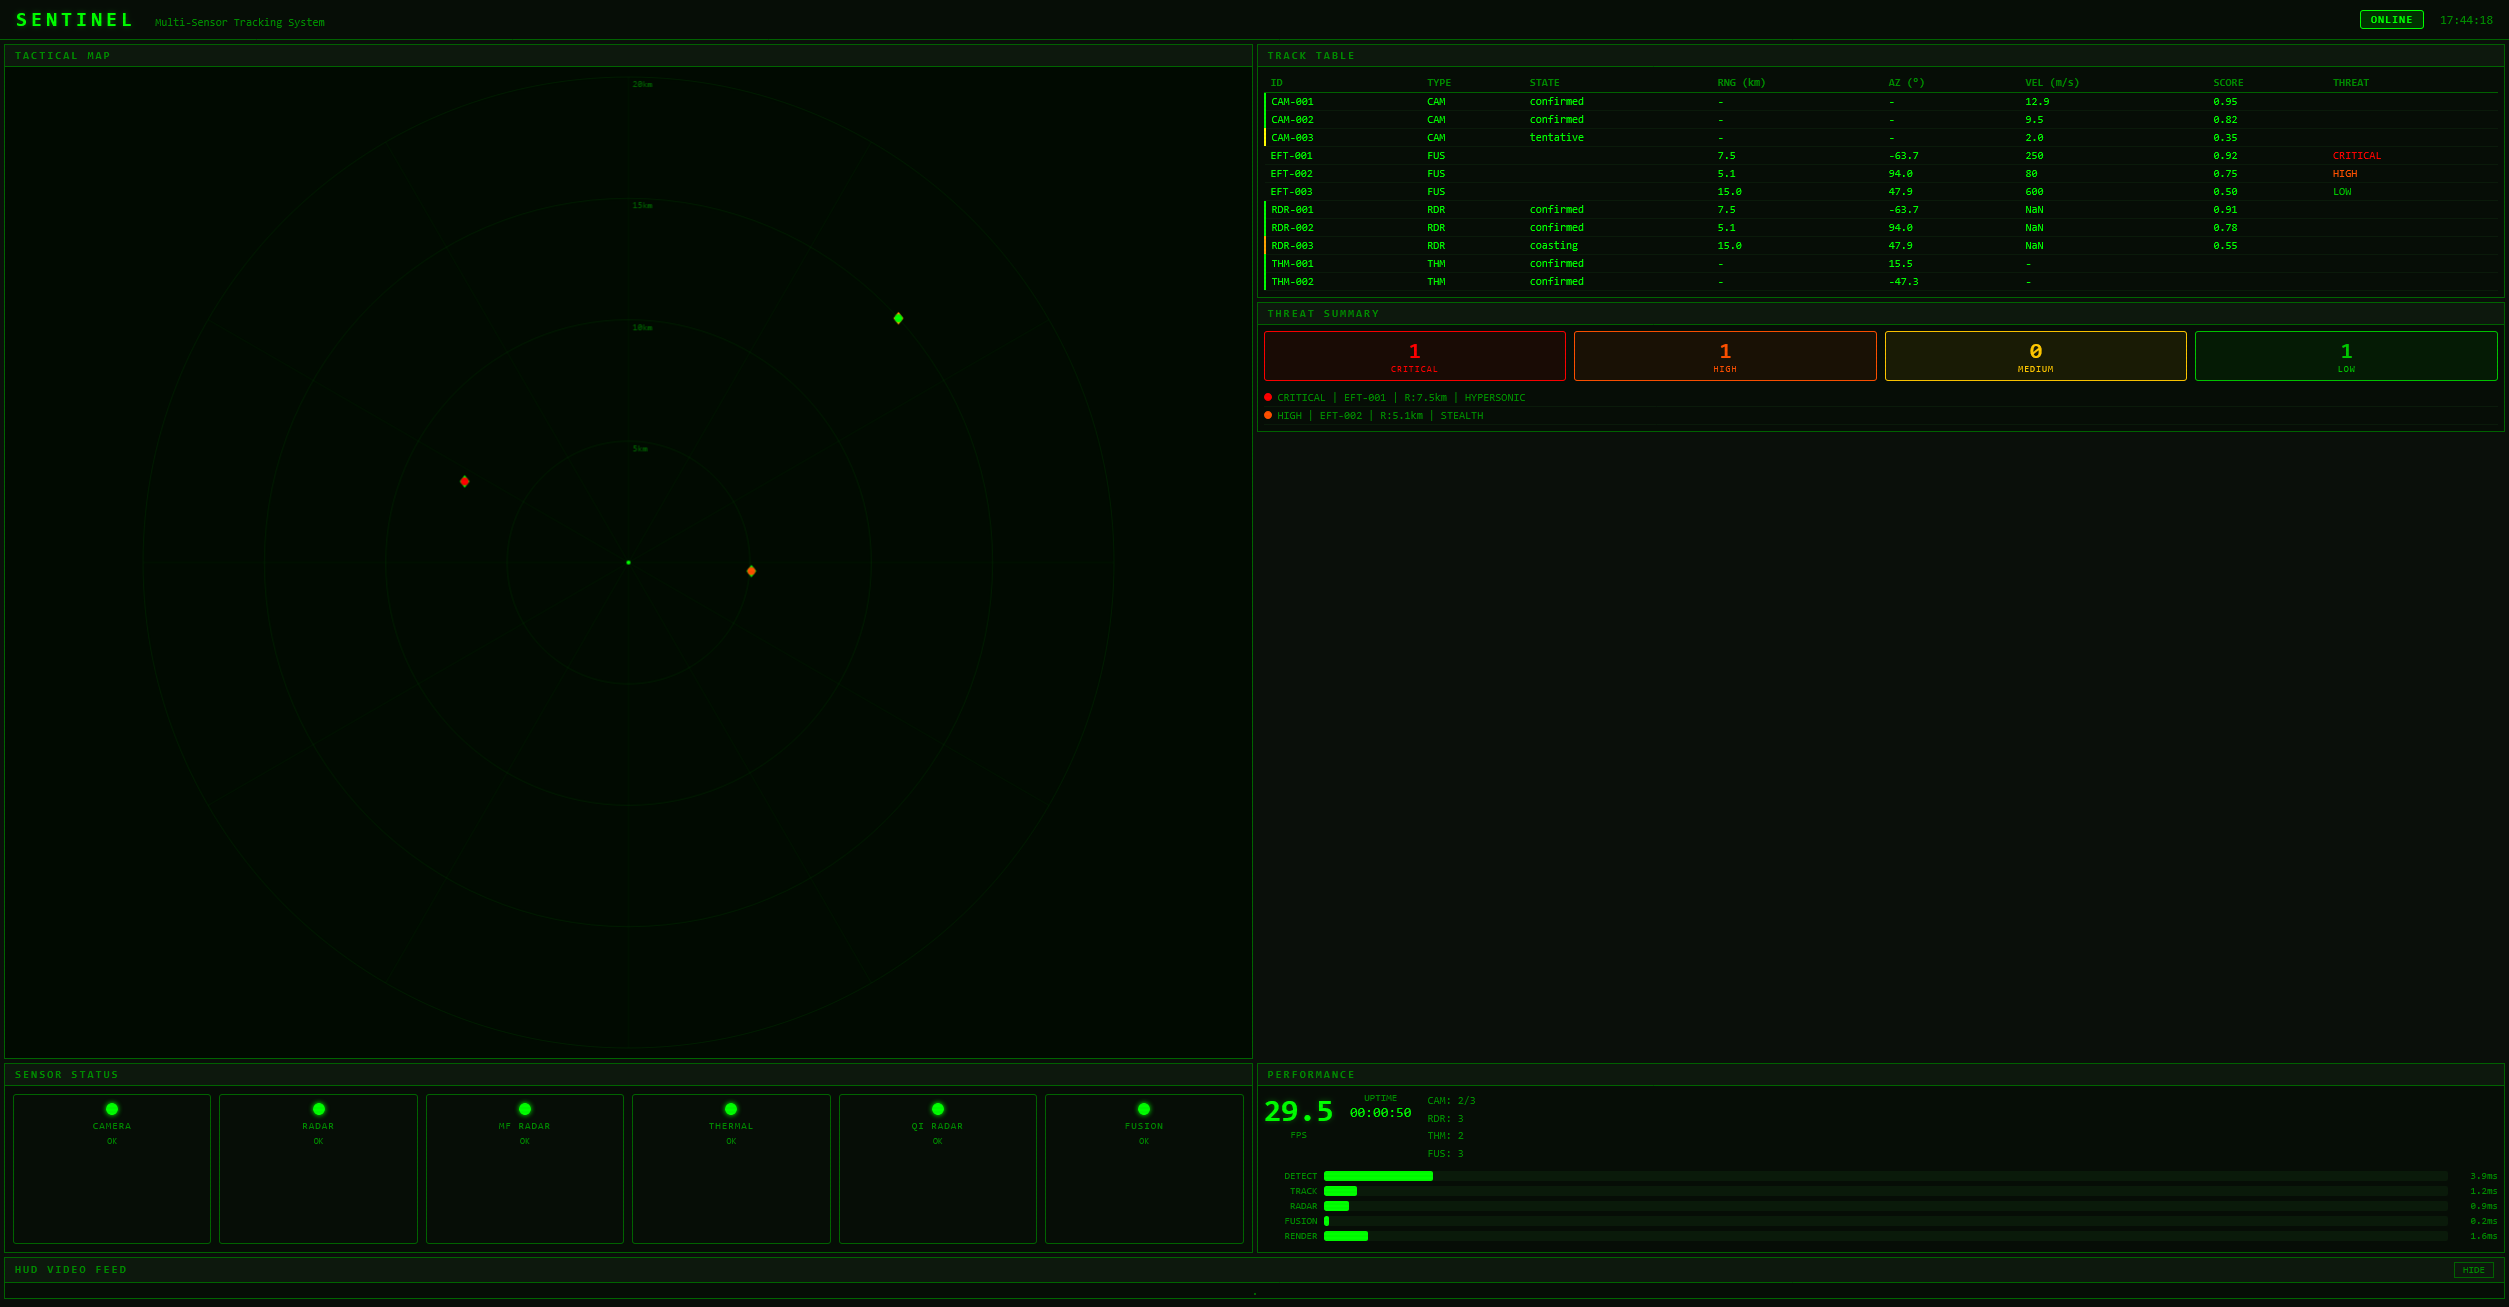
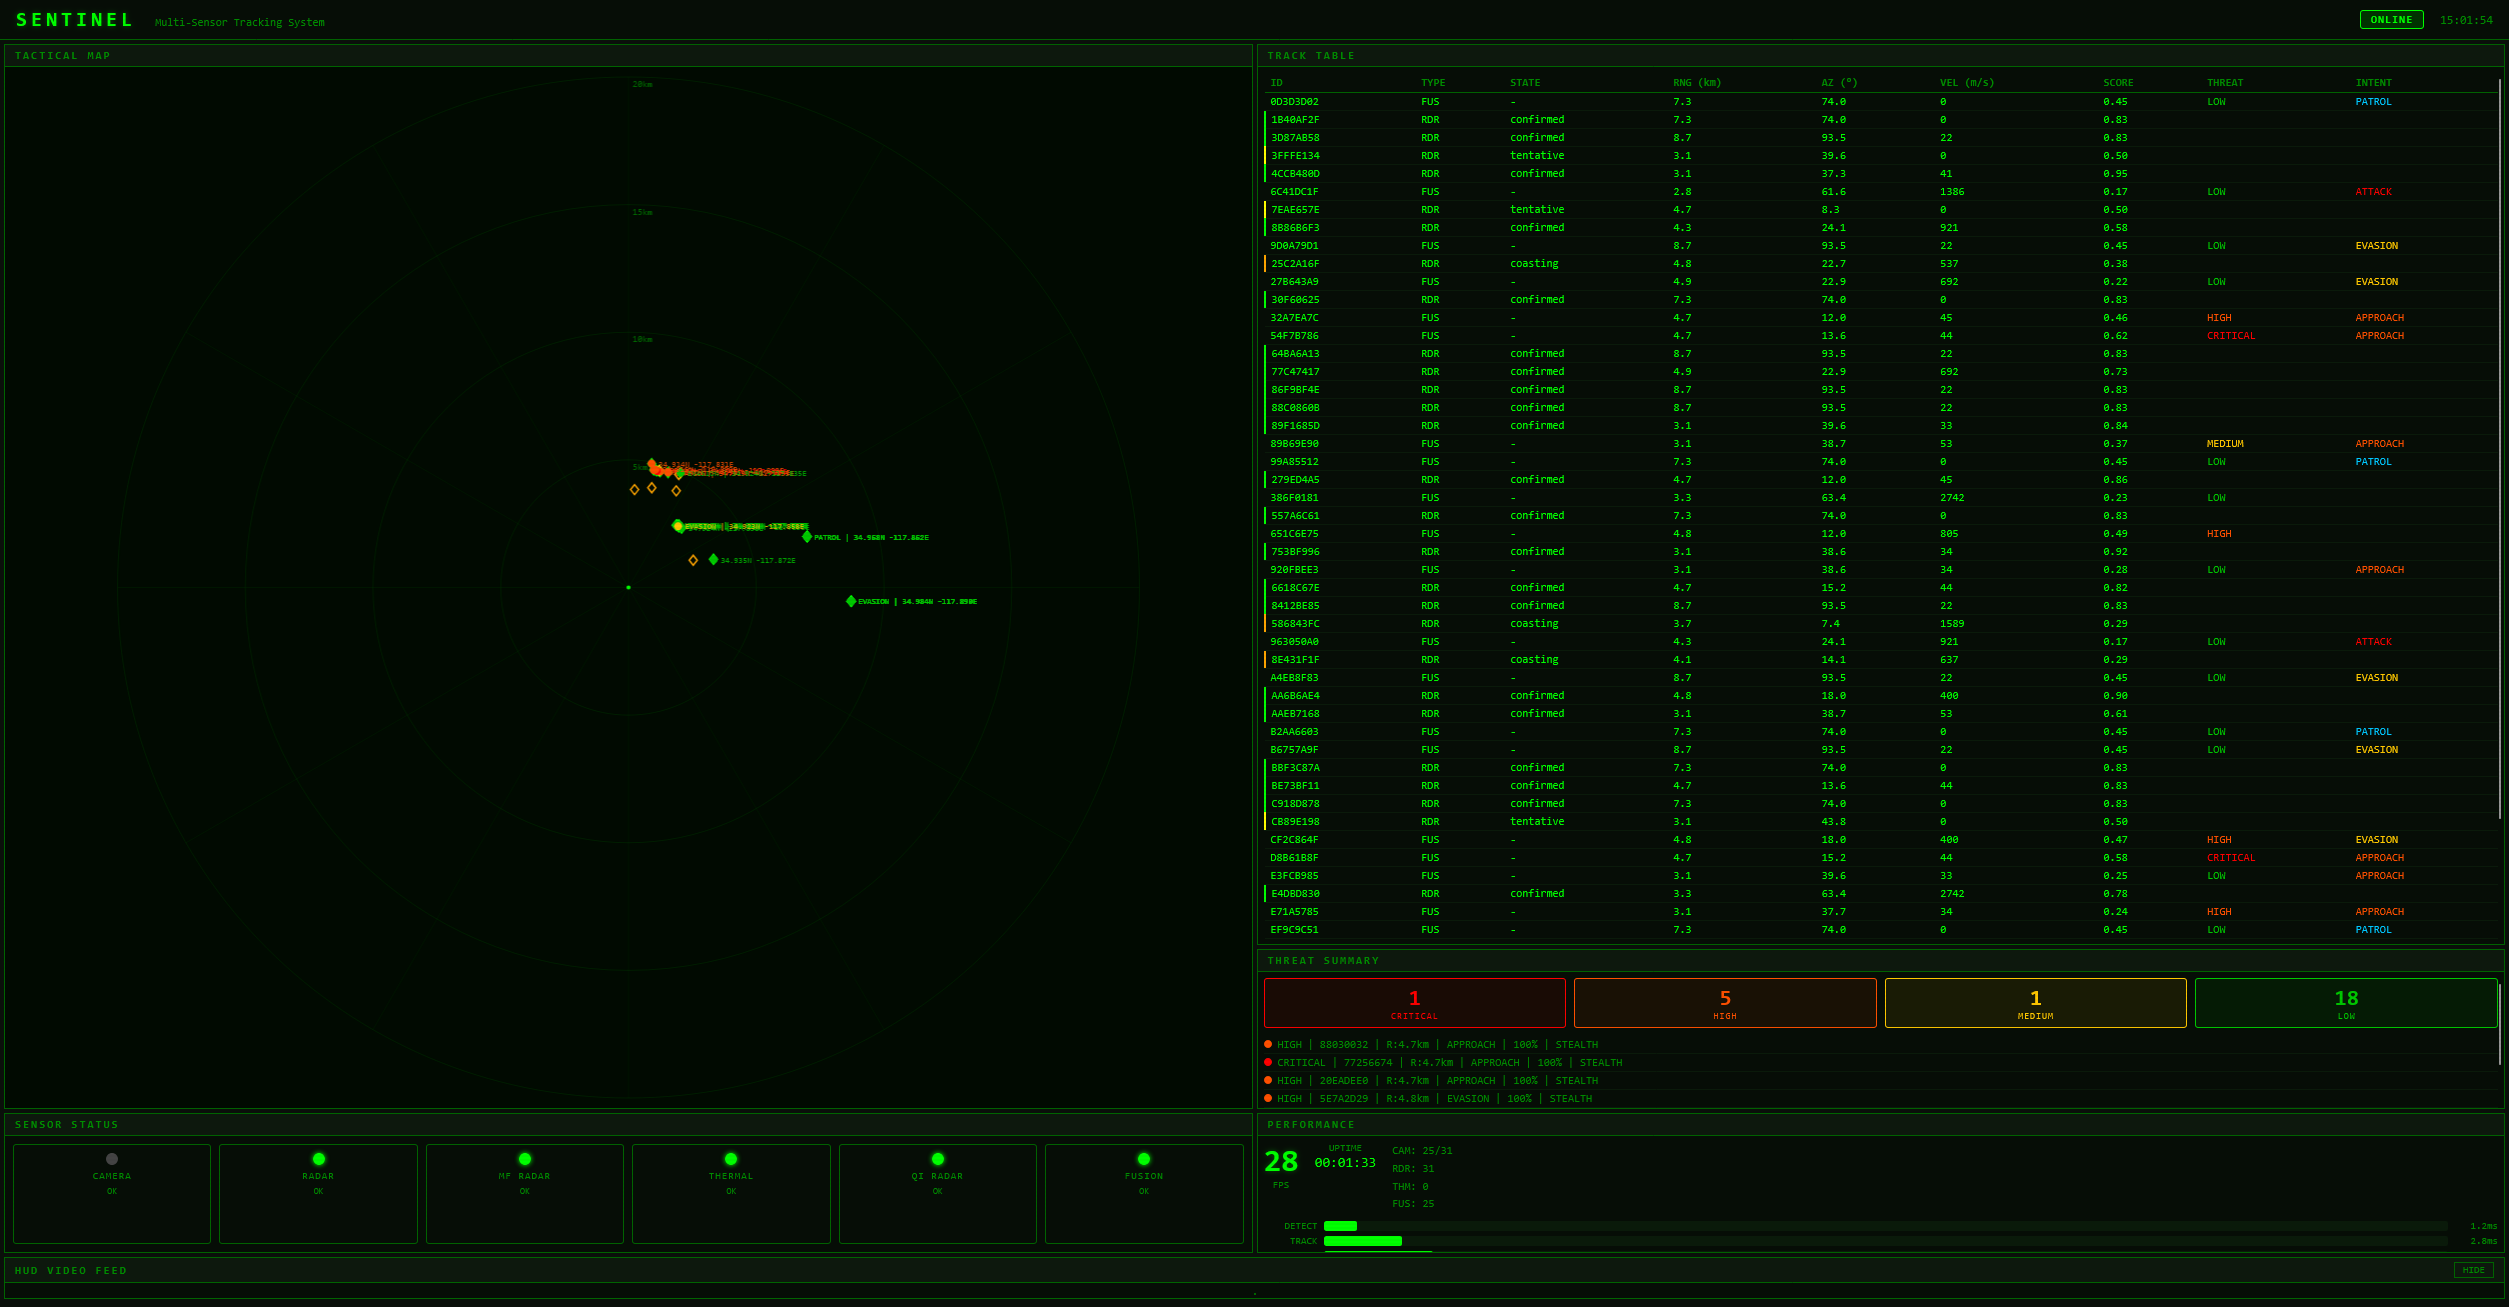
Update web dashboard and demo for Phase 16-18 features (geodetic coords, intent, threat classification)

diff --git a/src/sentinel/ui/web/static/js/track_table.js b/src/sentinel/ui/web/static/js/track_table.js
@@ -37,6 +37,7 @@ window.TrackTable = (function () {
         velocity: t.velocity ? Math.sqrt(t.velocity[0] ** 2 + t.velocity[1] ** 2).toFixed(1) : "",
         score: t.score != null ? t.score.toFixed(2) : "",
         threat: "",
+        intent: "",
         _state: t.state,
       });
     });
@@ -51,6 +52,7 @@ window.TrackTable = (function () {
         velocity: t.velocity_mps != null ? (typeof t.velocity_mps === "number" ? t.velocity_mps.toFixed(0) : Math.sqrt(t.velocity_mps[0] ** 2 + t.velocity_mps[1] ** 2).toFixed(0)) : "",
         score: t.score != null ? t.score.toFixed(2) : "",
         threat: "",
+        intent: "",
         _state: t.state,
       });
     });
@@ -65,6 +67,7 @@ window.TrackTable = (function () {
         velocity: "",
         score: t.score != null ? t.score.toFixed(2) : "",
         threat: "",
+        intent: "",
         _state: t.state,
       });
     });
@@ -79,6 +82,7 @@ window.TrackTable = (function () {
         velocity: t.velocity_mps != null ? t.velocity_mps.toFixed(0) : "",
         score: t.fusion_quality != null ? t.fusion_quality.toFixed(2) : "",
         threat: t.threat_level || "",
+        intent: t.intent && t.intent !== "unknown" ? t.intent.toUpperCase() : "",
         _state: "",
       });
     });
@@ -107,8 +111,17 @@ window.TrackTable = (function () {
     return "";
   }
 
-  var COL_COUNT = 8;
-  var FIELDS = ["id", "type", "state", "range", "azimuth", "velocity", "score", "threat"];
+  function intentColor(intent) {
+    if (intent === "ATTACK") return "var(--color-critical)";
+    if (intent === "APPROACH") return "var(--color-high)";
+    if (intent === "EVASION") return "var(--color-medium)";
+    if (intent === "PATROL") return "var(--color-radar)";
+    if (intent === "TRANSIT") return "var(--color-text-dim)";
+    return "";
+  }
+
+  var COL_COUNT = 9;
+  var FIELDS = ["id", "type", "state", "range", "azimuth", "velocity", "score", "threat", "intent"];
 
   function ensureRow(index) {
     if (index < tbody.children.length) return tbody.children[index];
@@ -134,12 +147,18 @@ window.TrackTable = (function () {
       for (var j = 0; j < FIELDS.length; j++) {
         var val = r[FIELDS[j]];
         var text = (val != null && val !== "") ? String(val) : "-";
-        if (j === FIELDS.length - 1) {
+        if (FIELDS[j] === "threat") {
           // threat column — also set color
           text = val || "";
           if (cells[j].textContent !== text) cells[j].textContent = text;
           var tc = threatColor(val);
           if (cells[j].style.color !== tc) cells[j].style.color = tc;
+        } else if (FIELDS[j] === "intent") {
+          // intent column — color by intent type
+          text = val || "";
+          if (cells[j].textContent !== text) cells[j].textContent = text;
+          var ic = intentColor(val);
+          if (cells[j].style.color !== ic) cells[j].style.color = ic;
         } else {
           if (cells[j].textContent !== text) cells[j].textContent = text;
         }

diff --git a/src/sentinel/ui/web/static/js/tactical_map.js b/src/sentinel/ui/web/static/js/tactical_map.js
@@ -97,7 +97,7 @@ window.TacticalMap = (function () {
     ctx.fill();
   }
 
-  function plotTrack(cx, cy, radius, range_m, azimuth_deg, type, state, threat) {
+  function plotTrack(cx, cy, radius, range_m, azimuth_deg, type, state, threat, label) {
     if (range_m == null || azimuth_deg == null) return;
     const range_km = range_m / 1000;
     if (range_km > maxRange) return;
@@ -137,6 +137,15 @@ window.TacticalMap = (function () {
       // Camera: small square
       ctx.strokeRect(x - 3, y - 3, 6, 6);
     }
+
+    // Draw label (intent / geo) for fused tracks
+    if (label) {
+      ctx.font = "8px Consolas, monospace";
+      ctx.fillStyle = color;
+      ctx.globalAlpha = 0.8;
+      ctx.fillText(label, x + 7, y + 3);
+      ctx.globalAlpha = 1.0;
+    }
   }
 
   // ---------------------------------------------------------------
@@ -167,7 +176,7 @@ window.TacticalMap = (function () {
         range_m = lerp(prev.range_m, tr.range_m, t);
         az = lerpAngle(prev.azimuth_deg, tr.azimuth_deg, t);
       }
-      plotTrack(cx, cy, radius, range_m, az, "radar", tr.state, null);
+      plotTrack(cx, cy, radius, range_m, az, "radar", tr.state, null, null);
     });
 
     // Thermal tracks — interpolated azimuth
@@ -179,10 +188,10 @@ window.TacticalMap = (function () {
       if (prev && prev.azimuth_deg != null && az != null) {
         az = lerpAngle(prev.azimuth_deg, tr.azimuth_deg, t);
       }
-      plotTrack(cx, cy, radius, range_m, az, "thermal", tr.state, null);
+      plotTrack(cx, cy, radius, range_m, az, "thermal", tr.state, null, null);
     });
 
-    // Enhanced fused tracks — interpolated
+    // Enhanced fused tracks — interpolated, with intent + geo labels
     (tracks.enhanced_fused || []).forEach(function (tr) {
       var key = tr.fused_id;
       var prev = prevFused[key];
@@ -192,12 +201,19 @@ window.TacticalMap = (function () {
         range_m = lerp(prev.range_m, tr.range_m, t);
         az = lerpAngle(prev.azimuth_deg, tr.azimuth_deg, t);
       }
-      plotTrack(cx, cy, radius, range_m, az, "enhanced_fused", null, tr.threat_level);
+      // Build label: intent + geo coords
+      var parts = [];
+      if (tr.intent && tr.intent !== "unknown") parts.push(tr.intent.toUpperCase());
+      if (tr.position_geo) {
+        parts.push(tr.position_geo.lat.toFixed(3) + "N " + tr.position_geo.lon.toFixed(3) + "E");
+      }
+      var label = parts.length > 0 ? parts.join(" | ") : null;
+      plotTrack(cx, cy, radius, range_m, az, "enhanced_fused", null, tr.threat_level, label);
     });
 
     // Plain fused tracks
     (tracks.fused || []).forEach(function (tr) {
-      plotTrack(cx, cy, radius, tr.range_m, tr.azimuth_deg, "fused", null, null);
+      plotTrack(cx, cy, radius, tr.range_m, tr.azimuth_deg, "fused", null, null, null);
     });
   }
 

diff --git a/src/sentinel/ui/web/static/js/threat_panel.js b/src/sentinel/ui/web/static/js/threat_panel.js
@@ -94,10 +94,12 @@ window.ThreatPanel = (function () {
       var badge = el.children[0];
       if (badge.style.background !== color) badge.style.background = color;
 
-      // Update text
+      // Update text — now includes intent and confidence (Phase 18)
       var text = t.threat_level + " | " +
         (t.fused_id || "").substring(0, 8) +
         (t.range_m != null ? " | R:" + (t.range_m / 1000).toFixed(1) + "km" : "") +
+        (t.intent && t.intent !== "unknown" ? " | " + t.intent.toUpperCase() : "") +
+        (t.threat_confidence ? " | " + Math.round(t.threat_confidence * 100) + "%" : "") +
         (t.is_stealth_candidate ? " | STEALTH" : "") +
         (t.is_hypersonic_candidate ? " | HYPERSONIC" : "");
 

diff --git a/src/sentinel/ui/web/static/index.html b/src/sentinel/ui/web/static/index.html
@@ -44,6 +44,7 @@
                 <th data-sort="velocity">VEL (m/s)</th>
                 <th data-sort="score">SCORE</th>
                 <th data-sort="threat">THREAT</th>
+                <th data-sort="intent">INTENT</th>
               </tr>
             </thead>
             <tbody id="tracks-tbody"></tbody>

diff --git a/scripts/demo_full_ew.py b/scripts/demo_full_ew.py
@@ -1,10 +1,13 @@
-"""SENTINEL full-feature demo: all sensors + environment + EW.
+"""SENTINEL full-feature demo: all sensors + environment + EW + geo + intent.
 
 Runs real simulators (multi-freq radar, thermal, quantum illumination) with:
   - Mixed threat scenario: stealth, hypersonic, conventional aircraft
   - Electronic warfare: noise jammer, chaff cloud, expendable decoy
   - Environment: light rain, atmospheric propagation
   - ECCM: QI quantum jamming resistance
+  - WGS84 geodetic coordinates (Phase 16)
+  - Batch cost-matrix ops (Phase 17 — transparent)
+  - Threat classification AI + intent estimation (Phase 18)
 
 Feeds live data into the web dashboard + prints console summary.
 
@@ -77,6 +80,7 @@ from sentinel.sensors.thermal_sim import (
 )
 from sentinel.tracking.radar_track_manager import RadarTrackManager
 from sentinel.tracking.thermal_track_manager import ThermalTrackManager
+from sentinel.utils.geo_context import GeoContext
 
 from omegaconf import OmegaConf
 
@@ -245,12 +249,16 @@ BOLD = "\033[1m"
 DIM = "\033[2m"
 
 
-def _print_header():
+def _print_header(geo_ctx: GeoContext | None = None):
     print("\033[2J\033[H", end="")  # Clear screen
     print(f"{BOLD}{'=' * 76}")
-    print(f"  SENTINEL  Full-Feature Demo — All Sensors + EW + Environment")
+    print(f"  SENTINEL  Full-Feature Demo — Phases 12-18")
     print(f"{'=' * 76}{RESET}")
     print(f"  Web dashboard: {BOLD}http://localhost:{PORT}{RESET}")
+    if geo_ctx:
+        print(f"  {DIM}Geo ref: {geo_ctx.name}  "
+              f"({geo_ctx.lat0_deg:.4f}N, {geo_ctx.lon0_deg:.4f}E, "
+              f"{geo_ctx.alt0_m:.0f}m MSL){RESET}")
     print(f"  Press Ctrl+C to stop\n")
 
 
@@ -261,8 +269,8 @@ def _print_step(step: int, elapsed: float,
                 env: EnvironmentModel,
                 clock: Clock | None = None):
     """Print a compact console summary of the current step."""
-    # Move cursor to line 8 (below header)
-    print(f"\033[8;0H\033[J", end="")
+    # Move cursor to line 9 (below header + geo line)
+    print(f"\033[9;0H\033[J", end="")
 
     ew_dets = sum(1 for d in mf_dets if d.is_ew_generated)
     real_dets = len(mf_dets) - ew_dets
@@ -301,7 +309,7 @@ def _print_step(step: int, elapsed: float,
           f"  ({stealth_corr} stealth, {chaff_corr} chaff)")
     print()
 
-    # Fused tracks with threat classification
+    # Fused tracks with threat classification + intent (Phase 18)
     print(f"  {BOLD}Fused tracks ({len(fused)}):{RESET}")
     if not fused:
         print(f"    {DIM}(none yet — waiting for track confirmation){RESET}")
@@ -333,11 +341,29 @@ def _print_step(step: int, elapsed: float,
         az = f"{ft.azimuth_deg:.1f}deg" if ft.azimuth_deg is not None else "---"
         temp = f" {ft.temperature_k:.0f}K" if ft.temperature_k else ""
 
+        # Intent (Phase 18)
+        intent_str = ""
+        if ft.intent and ft.intent != "unknown":
+            intent_str = f"  intent={ft.intent.upper()}"
+
+        # Threat method + confidence (Phase 18)
+        method_str = f"  ({ft.threat_method}" if ft.threat_method else ""
+        if method_str and ft.threat_confidence > 0:
+            method_str += f" {ft.threat_confidence:.0%}"
+        if method_str:
+            method_str += ")"
+
         print(f"    {color}{ft.threat_level:>8s}{RESET}  "
               f"[{sensor_str:>5s}]  "
               f"r={rng:>8s}  az={az:>8s}{temp}"
               f"  q={ft.fusion_quality:.2f}"
+              f"{intent_str}{method_str}"
               f"{flag_str}")
+
+        # Geodetic position (Phase 16)
+        geo = ft.to_dict().get("position_geo")
+        if geo:
+            print(f"             {DIM}geo: {geo['lat']:.5f}N  {geo['lon']:.5f}E  {geo['alt']:.0f}m{RESET}")
     print()
 
     # Weather
@@ -362,17 +388,21 @@ def _snapshot_from_state(
 ) -> "StateSnapshot":
     from sentinel.ui.web.state_buffer import StateSnapshot
 
-    # Serialize radar tracks
+    # Serialize radar tracks (with geodetic coords if available)
     radar_list = []
     for rt in radar_mgr.active_tracks:
-        radar_list.append({
+        entry = {
             "track_id": rt.track_id,
             "state": rt.state.value if hasattr(rt.state, 'value') else str(rt.state),
             "range_m": float(rt.range_m),
             "azimuth_deg": float(rt.azimuth_deg),
             "velocity_mps": float(np.linalg.norm(rt.velocity)) if rt.velocity is not None else 0.0,
             "score": float(rt.score),
-        })
+        }
+        geo = getattr(rt, "position_geo", None)
+        if geo is not None:
+            entry["position_geo"] = {"lat": float(geo[0]), "lon": float(geo[1]), "alt": float(geo[2])}
+        radar_list.append(entry)
 
     # Serialize thermal tracks
     thermal_list = []
@@ -464,11 +494,19 @@ def main() -> None:
     except ImportError:
         has_web = False
 
+    # Geo reference: Edwards AFB, California (Phase 16)
+    geo_ctx = GeoContext(
+        lat0_deg=34.9054,
+        lon0_deg=-117.8839,
+        alt0_m=702.0,
+        name="Edwards AFB",
+    )
+
     # Build environment + targets (deploy_time aligned with clock)
     env = _build_environment(deploy_time=clock.now())
     radar_targets, thermal_targets = _build_targets()
 
-    # Create simulators (all share the same clock)
+    # Create simulators (all share the same clock + geo context)
     mf_sim = MultiFreqRadarSimulator(
         MultiFreqRadarConfig(
             bands=[RadarBand.VHF, RadarBand.UHF, RadarBand.L_BAND, RadarBand.S_BAND, RadarBand.X_BAND],
@@ -481,6 +519,7 @@ def main() -> None:
         ),
         seed=42,
         clock=clock,
+        geo_context=geo_ctx,
     )
     th_sim = ThermalSimulator(
         ThermalSimConfig(
@@ -493,6 +532,7 @@ def main() -> None:
         ),
         seed=43,
         clock=clock,
+        geo_context=geo_ctx,
     )
     qi_sim = QuantumRadarSimulator(
         QuantumRadarConfig(
@@ -505,14 +545,15 @@ def main() -> None:
         ),
         seed=44,
         clock=clock,
+        geo_context=geo_ctx,
     )
 
-    # Create track managers
-    radar_mgr = RadarTrackManager(_radar_cfg())
-    thermal_mgr = ThermalTrackManager(_thermal_cfg())
-    quantum_mgr = RadarTrackManager(_radar_cfg())
+    # Create track managers (with geo context for geodetic output)
+    radar_mgr = RadarTrackManager(_radar_cfg(), geo_context=geo_ctx)
+    thermal_mgr = ThermalTrackManager(_thermal_cfg(), geo_context=geo_ctx)
+    quantum_mgr = RadarTrackManager(_radar_cfg(), geo_context=geo_ctx)
 
-    # Correlator + Fusion
+    # Correlator + Fusion (Phase 18: intent estimation enabled)
     correlator = MultiFreqCorrelator(
         range_gate_m=200.0,
         azimuth_gate_deg=5.0,
@@ -521,6 +562,7 @@ def main() -> None:
     fusion = MultiSensorFusion(
         azimuth_gate_deg=10.0,
         thermal_azimuth_gate_deg=8.0,
+        intent_estimation_enabled=True,
     )
 
     # Web dashboard (optional)
@@ -540,7 +582,7 @@ def main() -> None:
     th_sim.connect()
     qi_sim.connect()
 
-    _print_header()
+    _print_header(geo_ctx=geo_ctx)
     if not has_web:
         print(f"  {DIM}(Web dashboard unavailable — install with: pip install -e '.[web]'){RESET}\n")
     if use_sim_clock:
